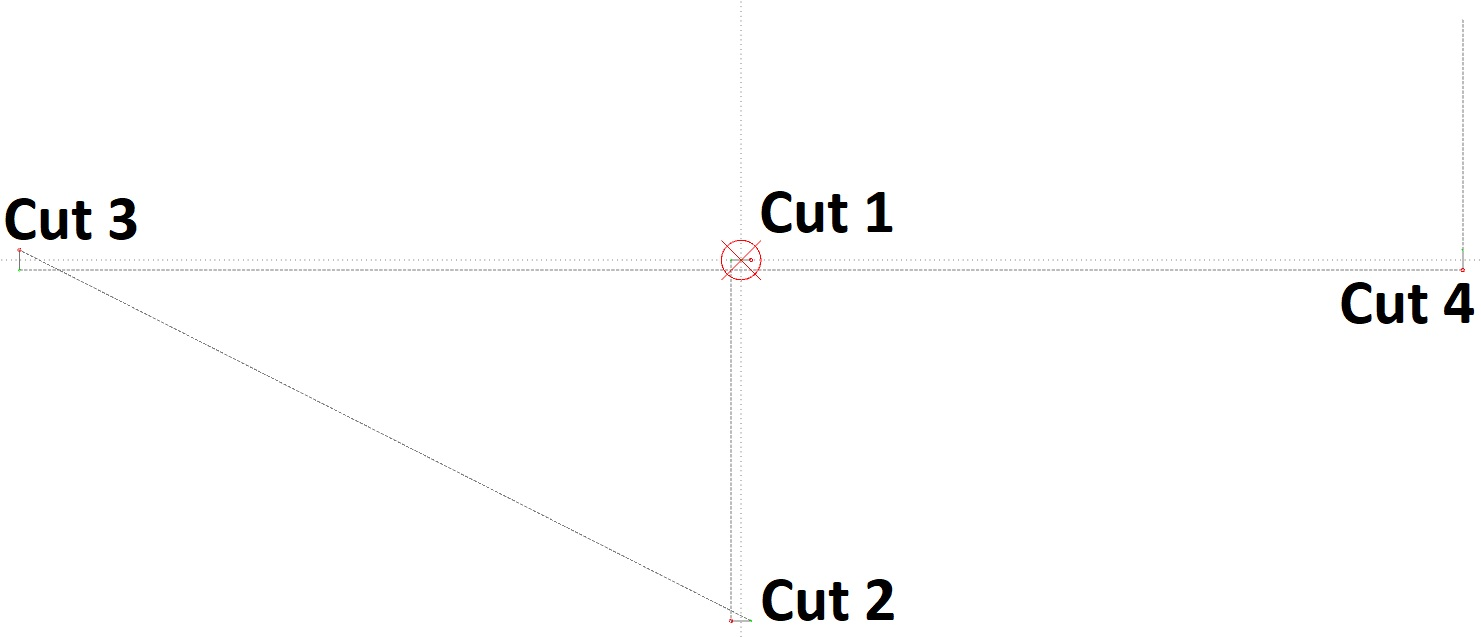
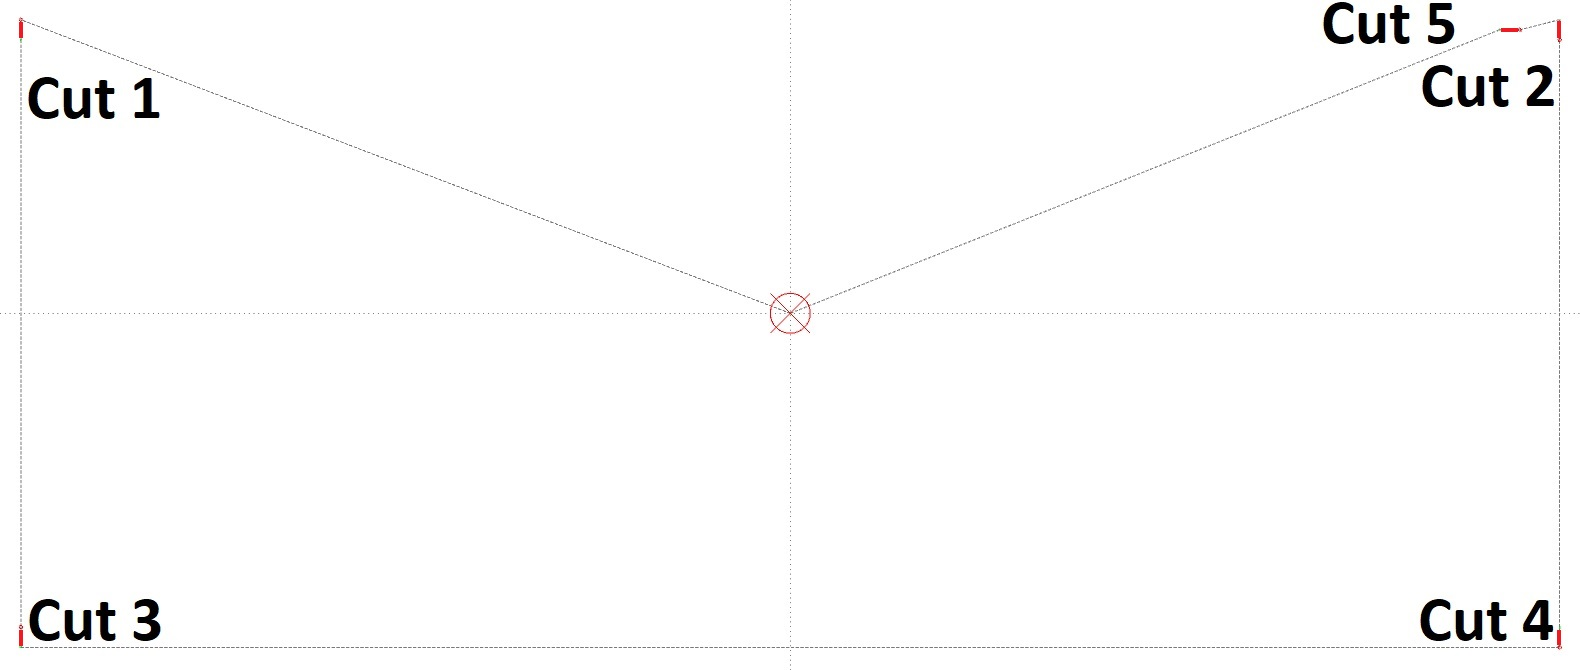
Change Triangular Kinematics Calibration Cut Pattern
This adjusts the triangular cinematics calibration cut pattern to be two long horizontal cuts, as well as associated calibration process changes.

diff --git a/UIElements/triangularCalibration.py b/UIElements/triangularCalibration.py
@@ -1,5 +1,6 @@
 from   kivy.uix.widget                    import   Widget
 from   kivy.properties                    import   ObjectProperty
+from   kivy.properties                    import   StringProperty
 from   UIElements.touchNumberInput        import   TouchNumberInput
 from   kivy.uix.popup                     import   Popup
 import global_variables
@@ -13,7 +14,8 @@ class TriangularCalibration(Widget):
     '''
     data                         =  ObjectProperty(None) #linked externally
     numberOfTimesTestCutRun      = -2
-    
+    triangularCalText            = StringProperty("")
+
     def cutTestPaternTriangular(self):
 
         workspaceHeight = float(self.data.config.get('Maslow Settings', 'bedHeight'))
@@ -21,39 +23,43 @@ class TriangularCalibration(Widget):
 
         self.data.units = "MM"
         self.data.gcode_queue.put("G21 ")
-        self.data.gcode_queue.put("G90 ") #Switch to absolute mode
+        self.data.gcode_queue.put("G90 ") # Switch to absolute mode
         self.data.gcode_queue.put("G40 ")
 
         self.data.gcode_queue.put("G0 Z5 ")
         self.data.gcode_queue.put("G0 X0 Y0 ")
         self.data.gcode_queue.put("G17 ")
 
-        self.data.gcode_queue.put("G91 ")   #Switch to relative mode
+        self.data.gcode_queue.put("G91 ") # Switch to relative mode
 
-        self.data.gcode_queue.put("G0 X12.7 ")  # Move to first cut point
+        self.data.gcode_queue.put("G0 X-" + str((workspaceWidth/2)-254) + " Y+" + str((workspaceHeight/2)-241.3) + " ")  # Move to first cut point
         self.data.gcode_queue.put("G1 Z-7 F500 ")
-        self.data.gcode_queue.put("G1 X-25.4 ") # Cut 25.4mm horizontal mark
+        self.data.gcode_queue.put("G1 Y-25.4 ") # Cut 25.4mm vertical mark
         self.data.gcode_queue.put("G1 Z7 ")
-        self.data.gcode_queue.put("G0 Y-" + str(workspaceHeight*3/8) + " ")  # Move down the workspace to second cut point
-        self.data.gcode_queue.put("G1 Z-7 ")
-        self.data.gcode_queue.put("G1 X25.4 ") # Cut 25.4mm horizontal mark
-        self.data.gcode_queue.put("G1 Z7 ")
-        self.data.gcode_queue.put("G0 X-" + str((workspaceWidth*3/8)+12.7) + " Y" + str((workspaceHeight*3/8)+12.7) + " ")  # Move up the workspace and to the left side to third cut point
+        self.data.gcode_queue.put("G0 Y-" + str(workspaceHeight-482.6) + " ")  # Move down on the workspace to third cut point
         self.data.gcode_queue.put("G1 Z-7 ")
         self.data.gcode_queue.put("G1 Y-25.4 ") # Cut 25.4mm vertical mark
         self.data.gcode_queue.put("G1 Z7 ")
-        self.data.gcode_queue.put("G0 X" + str(workspaceWidth*6/8) + " ")  # Move to the right side to fourth cut point
+        self.data.gcode_queue.put("G0 X" + str(workspaceWidth-508) + " ")  # Move right on the workspace to fourth cut point
         self.data.gcode_queue.put("G1 Z-7 ")
         self.data.gcode_queue.put("G1 Y25.4 ") # Cut 25.4mm vertical mark
         self.data.gcode_queue.put("G1 Z7 ")
-        self.data.gcode_queue.put("G0 Y" + str((workspaceHeight/4)-12.7) + " ")  # Move the sled out of the way for measurements
+        self.data.gcode_queue.put("G0 Y" + str(workspaceHeight-482.6) + " ")  # Move up on the workspace to second cut point
+        self.data.gcode_queue.put("G1 Z-7 ")
+        self.data.gcode_queue.put("G1 Y25.4 ") # Cut 25.4mm vertical mark
+        self.data.gcode_queue.put("G1 Z7 ")
+        self.data.gcode_queue.put("G0 X-50 Y-12.7 ")  # Move left on the workspace to fifth cut point
+        self.data.gcode_queue.put("G1 Z-7 ")
+        self.data.gcode_queue.put("G1 X-25.4 ") # Cut 25.4mm horizontal mark
+        self.data.gcode_queue.put("G1 Z7 ")
 
-        self.data.gcode_queue.put("G90 ") #Switch back to absolute mode
+        self.data.gcode_queue.put("G90 ") # Switch back to absolute mode
+        self.data.gcode_queue.put("G0 X0 Y0 ") # Move to home location
 
         self.cutBtnT.text = "Re-Cut Test\nPattern"
-        self.vertMeasureT1.disabled = False
-        self.vertMeasureT2.disabled = False
         self.horzMeasureT1.disabled = False
+        self.horzMeasureT2.disabled = False
+        self.vertMeasureT1.disabled = False
         self.enterValuesT.disabled = False
 
     def enterTestPaternValuesTriangular(self):
@@ -69,21 +75,21 @@ class TriangularCalibration(Widget):
         workspaceWidth = float(self.data.config.get('Maslow Settings', 'bedWidth'))
 
         try:
-            distBetweenCuts12 = float(self.vertMeasureT1.text)
+            distBetweenCuts12 = float(self.horzMeasureT1.text)
         except:
             self.data.message_queue.put("Message: Please enter a number for the distance between cut 1 and cut 2.")
             return
 
         try:
-            distBetweenCuts34 = float(self.horzMeasureT1.text)
+            distBetweenCuts34 = float(self.horzMeasureT2.text)
         except:
             self.data.message_queue.put("Message: Please enter a number for the distance between cut 3 and cut 4.")
             return
 
         try:
-            distWorkareaTopToCut1 = float(self.vertMeasureT2.text)
+            distWorkareaTopToCut5 = float(self.vertMeasureT1.text)
         except:
-            self.data.message_queue.put("Message: Please enter a number for the distance between the top of the work area and cut 1.")
+            self.data.message_queue.put("Message: Please enter a number for the distance between the top of the work area and cut 5.")
             return
 
         try:
@@ -93,31 +99,31 @@ class TriangularCalibration(Widget):
             return
 
         if self.unitsBtnT.text == 'Units: inches':
-            if (((distBetweenCuts12*25.4) > (workspaceHeight / 2)) or ((distBetweenCuts12*25.4) < (workspaceHeight / 10))):
+            if (((distBetweenCuts12*25.4) > workspaceWidth) or ((distBetweenCuts12*25.4) < (workspaceWidth / 2))):
                 self.data.message_queue.put('Message: The measurement between cut 1 and cut 2 of ' + str(distBetweenCuts12) + ' inches seems wrong.\n\nPlease check the number and enter it again.')
                 return
-            if (((distBetweenCuts34*25.4) > workspaceWidth) or ((distBetweenCuts34*25.4) < (workspaceWidth / 10))):
+            if (((distBetweenCuts34*25.4) > workspaceWidth) or ((distBetweenCuts34*25.4) < (workspaceWidth / 2))):
                 self.data.message_queue.put('Message: The measurement between cut 3 and cut 4 of ' + str(distBetweenCuts34) + ' inches seems wrong.\n\nPlease check the number and enter it again.')
                 return
-            if (((distWorkareaTopToCut1*25.4) > workspaceHeight) or (distWorkareaTopToCut1 < 0)):
-                self.data.message_queue.put('Message: The measurement between the top edge of the work area and cut 1 of ' + str(distWorkareaTopToCut1) + ' inches seems wrong.\n\nPlease check the number and enter it again.')
+            if (((distWorkareaTopToCut5*25.4) > (workspaceHeight/2)) or (distWorkareaTopToCut5 < 0)):
+                self.data.message_queue.put('Message: The measurement between the top edge of the work area and cut 5 of ' + str(distWorkareaTopToCut5) + ' inches seems wrong.\n\nPlease check the number and enter it again.')
                 return
             if ((bitDiameter > 1) or (bitDiameter < 0)):
                 self.data.message_queue.put('Message: The bit diameter value of ' + str(bitDiameter) + ' inches seems wrong.\n\nPlease check the number and enter it again.')
                 return
             distBetweenCuts12 *= 25.4
             distBetweenCuts34 *= 25.4
-            distWorkareaTopToCut1 *= 25.4
+            distWorkareaTopToCut5 *= 25.4
             bitDiameter *= 25.4
         else:
-            if ((distBetweenCuts12 > (workspaceHeight / 2)) or (distBetweenCuts12 < (workspaceHeight / 10))):
+            if ((distBetweenCuts12 > workspaceWidth) or (distBetweenCuts12 < (workspaceWidth / 2))):
                 self.data.message_queue.put('Message: The measurement between cut 1 and cut 2 of ' + str(distBetweenCuts12) + ' mm seems wrong.\n\nPlease check the number and enter it again.')
                 return
-            if ((distBetweenCuts34 > workspaceWidth) or (distBetweenCuts34 < (workspaceWidth / 10))):
+            if ((distBetweenCuts34 > workspaceWidth) or (distBetweenCuts34 < (workspaceWidth / 2))):
                 self.data.message_queue.put('Message: The measurement between cut 3 and cut 4 of ' + str(distBetweenCuts34) + ' mm seems wrong.\n\nPlease check the number and enter it again.')
                 return
-            if ((distWorkareaTopToCut1 > workspaceHeight) or (distWorkareaTopToCut1 < 0)):
-                self.data.message_queue.put('Message: The measurement between the top edge of the work area and cut 1 of ' + str(distWorkareaTopToCut1) + ' mm seems wrong.\n\nPlease check the number and enter it again.')
+            if ((distWorkareaTopToCut5 > (workspaceHeight/2)) or (distWorkareaTopToCut5 < 0)):
+                self.data.message_queue.put('Message: The measurement between the top edge of the work area and cut 5 of ' + str(distWorkareaTopToCut5) + ' mm seems wrong.\n\nPlease check the number and enter it again.')
                 return
             if ((bitDiameter > 25.4) or (bitDiameter < 0)):
                 self.data.message_queue.put('Message: The bit diameter value of ' + str(bitDiameter) + ' mm seems wrong.\n\nPlease check the number and enter it again.')
@@ -129,8 +135,8 @@ class TriangularCalibration(Widget):
         numberOfIterations = 5000
         motorYcoordCorrectionScale = 0.5
         rotationRadiusCorrectionScale = 0.5
-        chainSagCorrectionCorrectionScale = 5.0
-        cut34YoffsetCorrectionScale = 1.0
+        chainSagCorrectionCorrectionScale = 1
+        cutYoffsetCorrectionScale = 0.5
 
         # Gather current machine parameters
 
@@ -146,16 +152,16 @@ class TriangularCalibration(Widget):
 
         # Calculate the actual chain lengths for each cut location
 
-        MotorDistanceCut1 = math.sqrt(math.pow(motorXcoord,2) + math.pow(motorYcoordEst,2))
-        MotorDistanceCut2 = math.sqrt(math.pow(motorXcoord,2) + math.pow(motorYcoordEst + (workspaceHeight*3/8),2))
-        MotorDistanceCut3 = math.sqrt(math.pow(motorXcoord - (workspaceWidth*3/8),2) + math.pow(motorYcoordEst,2))
-        MotorDistanceCut4 = math.sqrt(math.pow(motorXcoord + (workspaceWidth*3/8),2) + math.pow(motorYcoordEst,2))
+        MotorDistanceCut1 = math.sqrt(math.pow(motorXcoord - ((workspaceWidth/2)-254),2) + math.pow(motorYcoordEst - ((workspaceHeight/2)-254),2))
+        MotorDistanceCut2 = math.sqrt(math.pow(motorXcoord + ((workspaceWidth/2)-254),2) + math.pow(motorYcoordEst - ((workspaceHeight/2)-254),2))
+        MotorDistanceCut3 = math.sqrt(math.pow(motorXcoord - ((workspaceWidth/2)-254),2) + math.pow(motorYcoordEst + ((workspaceHeight/2)-254),2))
+        MotorDistanceCut4 = math.sqrt(math.pow(motorXcoord + ((workspaceWidth/2)-254),2) + math.pow(motorYcoordEst + ((workspaceHeight/2)-254),2))
 
         #Calculate the chain angles from horizontal
-        ChainAngleCut1 = 3.14159 - math.acos(motorSprocketRadius/MotorDistanceCut1) - math.acos(motorYcoordEst / MotorDistanceCut1)
-        ChainAngleCut2 = 3.14159 - math.acos(motorSprocketRadius/MotorDistanceCut2) - math.acos((motorYcoordEst + (workspaceHeight*3/8)) / MotorDistanceCut2)
-        ChainAngleCut3 = 3.14159 - math.acos(motorSprocketRadius/MotorDistanceCut3) - math.acos((motorYcoordEst) / MotorDistanceCut3)
-        ChainAngleCut4 = 3.14159 - math.acos(motorSprocketRadius/MotorDistanceCut4) - math.acos((motorYcoordEst) / MotorDistanceCut4)
+        ChainAngleCut1 = 3.14159 - math.acos(motorSprocketRadius/MotorDistanceCut1) - math.acos((motorYcoordEst - ((workspaceHeight/2)-254)) / MotorDistanceCut1)
+        ChainAngleCut2 = 3.14159 - math.acos(motorSprocketRadius/MotorDistanceCut2) - math.acos((motorYcoordEst - ((workspaceHeight/2)-254)) / MotorDistanceCut2)
+        ChainAngleCut3 = 3.14159 - math.acos(motorSprocketRadius/MotorDistanceCut3) - math.acos((motorYcoordEst + ((workspaceHeight/2)-254)) / MotorDistanceCut3)
+        ChainAngleCut4 = 3.14159 - math.acos(motorSprocketRadius/MotorDistanceCut4) - math.acos((motorYcoordEst + ((workspaceHeight/2)-254)) / MotorDistanceCut4)
 
         #Calculate the straight chain length from the sprocket to the bit
         ChainStraightCut1 = math.sqrt(math.pow(MotorDistanceCut1,2) - math.pow(motorSprocketRadius,2))
@@ -164,8 +170,8 @@ class TriangularCalibration(Widget):
         ChainStraightCut4 = math.sqrt(math.pow(MotorDistanceCut4,2) - math.pow(motorSprocketRadius,2))
 
         #Correct the straight chain lengths to account for chain sag
-        ChainStraightCut1 *= (1 + ((chainSagCorrectionEst / 1000000000000) * math.pow(math.cos(ChainAngleCut1),2) * math.pow(ChainStraightCut1,2) * math.pow((math.tan(ChainAngleCut1) * math.cos(ChainAngleCut1)) + math.sin(ChainAngleCut1),2)))
-        ChainStraightCut2 *= (1 + ((chainSagCorrectionEst / 1000000000000) * math.pow(math.cos(ChainAngleCut2),2) * math.pow(ChainStraightCut2,2) * math.pow((math.tan(ChainAngleCut2) * math.cos(ChainAngleCut2)) + math.sin(ChainAngleCut2),2)))
+        ChainStraightCut1 *= (1 + ((chainSagCorrectionEst / 1000000000000) * math.pow(math.cos(ChainAngleCut1),2) * math.pow(ChainStraightCut1,2) * math.pow((math.tan(ChainAngleCut2) * math.cos(ChainAngleCut1)) + math.sin(ChainAngleCut1),2)))
+        ChainStraightCut2 *= (1 + ((chainSagCorrectionEst / 1000000000000) * math.pow(math.cos(ChainAngleCut2),2) * math.pow(ChainStraightCut2,2) * math.pow((math.tan(ChainAngleCut1) * math.cos(ChainAngleCut2)) + math.sin(ChainAngleCut2),2)))
         ChainStraightCut3 *= (1 + ((chainSagCorrectionEst / 1000000000000) * math.pow(math.cos(ChainAngleCut3),2) * math.pow(ChainStraightCut3,2) * math.pow((math.tan(ChainAngleCut4) * math.cos(ChainAngleCut3)) + math.sin(ChainAngleCut3),2)))
         ChainStraightCut4 *= (1 + ((chainSagCorrectionEst / 1000000000000) * math.pow(math.cos(ChainAngleCut4),2) * math.pow(ChainStraightCut4,2) * math.pow((math.tan(ChainAngleCut3) * math.cos(ChainAngleCut4)) + math.sin(ChainAngleCut4),2)))
 
@@ -186,7 +192,7 @@ class TriangularCalibration(Widget):
         print "Previous machine parameters:"
         print "Motor Spacing: " + str(motorSpacing) + ", Motor Y Offset: " + str(motorYoffsetEst) + ", Rotation Disk Radius: " + str(rotationRadiusEst) + ", Chain Sag Correction Value: " + str(chainSagCorrectionEst)
 
-        motorYcoordEst = distWorkareaTopToCut1 + (bitDiameter / 2)
+        motorYcoordEst = distWorkareaTopToCut5 + (bitDiameter / 2)
         rotationRadiusEst = 0
         chainSagCorrectionEst= 0
         cut34YoffsetEst = 0
@@ -196,9 +202,9 @@ class TriangularCalibration(Widget):
         ChainErrorCut4 = acceptableTolerance
         n = 0
 
-        self.vertMeasureT1.disabled = True
-        self.vertMeasureT2.disabled = True
         self.horzMeasureT1.disabled = True
+        self.horzMeasureT2.disabled = True
+        self.vertMeasureT1.disabled = True
         self.enterValuesT.disabled = True
 
         print "Iterating for new machine parameters"
@@ -210,16 +216,16 @@ class TriangularCalibration(Widget):
 
             # Calculate chain lengths for current estimated parameters
 
-            MotorDistanceCut1Est = math.sqrt(math.pow(motorXcoord,2) + math.pow(motorYcoordEst,2))
-            MotorDistanceCut2Est = math.sqrt(math.pow(motorXcoord,2) + math.pow(motorYcoordEst + distBetweenCuts12,2))
-            MotorDistanceCut3Est = math.sqrt(math.pow(motorXcoord - (distBetweenCuts34 / 2),2) + math.pow(motorYcoordEst + cut34YoffsetEst,2))
-            MotorDistanceCut4Est = math.sqrt(math.pow(motorXcoord + (distBetweenCuts34 / 2),2) + math.pow(motorYcoordEst + cut34YoffsetEst,2))
+            MotorDistanceCut1Est = math.sqrt(math.pow(motorXcoord - (distBetweenCuts12 / 2),2) + math.pow(motorYcoordEst,2))
+            MotorDistanceCut2Est = math.sqrt(math.pow(motorXcoord + (distBetweenCuts12 / 2),2) + math.pow(motorYcoordEst,2))
+            MotorDistanceCut3Est = math.sqrt(math.pow(motorXcoord - (distBetweenCuts34 / 2),2) + math.pow(motorYcoordEst + (workspaceHeight-508) - cut34YoffsetEst,2))
+            MotorDistanceCut4Est = math.sqrt(math.pow(motorXcoord + (distBetweenCuts34 / 2),2) + math.pow(motorYcoordEst + (workspaceHeight-508) - cut34YoffsetEst,2))
 
             #Calculate the chain angles from horizontal
-            ChainAngleCut1Est = 3.14159 - math.acos(motorSprocketRadius / MotorDistanceCut1Est) - math.acos((motorYcoordEst) / MotorDistanceCut1Est)
-            ChainAngleCut2Est = 3.14159 - math.acos(motorSprocketRadius / MotorDistanceCut2Est) - math.acos((motorYcoordEst + distBetweenCuts12) / MotorDistanceCut2Est)
-            ChainAngleCut3Est = 3.14159 - math.acos(motorSprocketRadius / MotorDistanceCut3Est) - math.acos((motorYcoordEst + cut34YoffsetEst) / MotorDistanceCut3Est)
-            ChainAngleCut4Est = 3.14159 - math.acos(motorSprocketRadius / MotorDistanceCut4Est) - math.acos((motorYcoordEst + cut34YoffsetEst) / MotorDistanceCut4Est)
+            ChainAngleCut1Est = 3.14159 - math.acos(motorSprocketRadius / MotorDistanceCut1Est) - math.acos(motorYcoordEst / MotorDistanceCut1Est)
+            ChainAngleCut2Est = 3.14159 - math.acos(motorSprocketRadius / MotorDistanceCut2Est) - math.acos(motorYcoordEst / MotorDistanceCut2Est)
+            ChainAngleCut3Est = 3.14159 - math.acos(motorSprocketRadius / MotorDistanceCut3Est) - math.acos((motorYcoordEst + (workspaceHeight-508) - cut34YoffsetEst) / MotorDistanceCut3Est)
+            ChainAngleCut4Est = 3.14159 - math.acos(motorSprocketRadius / MotorDistanceCut4Est) - math.acos((motorYcoordEst + (workspaceHeight-508) - cut34YoffsetEst) / MotorDistanceCut4Est)
 
             #Calculate the straight chain length from the sprocket to the bit
             ChainStraightCut1Est = math.sqrt(math.pow(MotorDistanceCut1Est,2) - math.pow(motorSprocketRadius,2))
@@ -228,8 +234,8 @@ class TriangularCalibration(Widget):
             ChainStraightCut4Est = math.sqrt(math.pow(MotorDistanceCut4Est,2) - math.pow(motorSprocketRadius,2))
 
             #Correct the straight chain lengths to account for chain sag
-            ChainStraightCut1Est *= (1 + ((chainSagCorrectionEst / 1000000000000) * math.pow(math.cos(ChainAngleCut1Est),2) * math.pow(ChainStraightCut1Est,2) * math.pow((math.tan(ChainAngleCut1Est) * math.cos(ChainAngleCut1Est)) + math.sin(ChainAngleCut1Est),2)))
-            ChainStraightCut2Est *= (1 + ((chainSagCorrectionEst / 1000000000000) * math.pow(math.cos(ChainAngleCut2Est),2) * math.pow(ChainStraightCut2Est,2) * math.pow((math.tan(ChainAngleCut2Est) * math.cos(ChainAngleCut2Est)) + math.sin(ChainAngleCut2Est),2)))
+            ChainStraightCut1Est *= (1 + ((chainSagCorrectionEst / 1000000000000) * math.pow(math.cos(ChainAngleCut1Est),2) * math.pow(ChainStraightCut1Est,2) * math.pow((math.tan(ChainAngleCut2Est) * math.cos(ChainAngleCut1Est)) + math.sin(ChainAngleCut1Est),2)))
+            ChainStraightCut2Est *= (1 + ((chainSagCorrectionEst / 1000000000000) * math.pow(math.cos(ChainAngleCut2Est),2) * math.pow(ChainStraightCut2Est,2) * math.pow((math.tan(ChainAngleCut1Est) * math.cos(ChainAngleCut2Est)) + math.sin(ChainAngleCut2Est),2)))
             ChainStraightCut3Est *= (1 + ((chainSagCorrectionEst / 1000000000000) * math.pow(math.cos(ChainAngleCut3Est),2) * math.pow(ChainStraightCut3Est,2) * math.pow((math.tan(ChainAngleCut4Est) * math.cos(ChainAngleCut3Est)) + math.sin(ChainAngleCut3Est),2)))
             ChainStraightCut4Est *= (1 + ((chainSagCorrectionEst / 1000000000000) * math.pow(math.cos(ChainAngleCut4Est),2) * math.pow(ChainStraightCut4Est,2) * math.pow((math.tan(ChainAngleCut3Est) * math.cos(ChainAngleCut4Est)) + math.sin(ChainAngleCut4Est),2)))
 
@@ -254,57 +260,48 @@ class TriangularCalibration(Widget):
 
             # Develop a printable motor Y offset value to update the user
 
-            motorYoffsetEstPrint = motorYcoordEst - distWorkareaTopToCut1 - (bitDiameter / 2)
+            motorYoffsetEstPrint = motorYcoordEst - distWorkareaTopToCut5 - (bitDiameter / 2)
 
             print "N: " + str(n) + ", Motor Spacing: " + str(round(motorSpacing, 3)) + ", Motor Y Offset: " + str(round(motorYoffsetEstPrint, 3)) + ", Rotation Disk Radius: " + str(round(rotationRadiusEst, 3)) + ", Chain Sag Correction Value: " + str(round(chainSagCorrectionEst, 6))
-            print "  Chain Error Cut 1: " + str(round(ChainErrorCut1,4)) + ", Chain Error Cut 2: " + str(round(ChainErrorCut2,4)) + ", Chain Error Cut 3: " + str(round(ChainErrorCut3,4)) + ", Chain Error Cut 4: " + str(round(ChainErrorCut4,4)) + ", Sled Drift Compensation: " + str(round(-1 * cut34YoffsetEst, 4))
+            print "  Chain Error Cut 1: " + str(round(ChainErrorCut1,4)) + ", Chain Error Cut 2: " + str(round(ChainErrorCut2,4)) + ", Chain Error Cut 3: " + str(round(ChainErrorCut3,4)) + ", Chain Error Cut 4: " + str(round(ChainErrorCut4,4)) + ", Sled Drift Compensation: " + str(round(cut34YoffsetEst, 4))
 
             # Update the motorYcoord and rotationRadius parameters based on the current chain length errors
 
-            if ((ChainErrorCut1 < 0 and ChainErrorCut2 < 0) or (ChainErrorCut1 > 0 and ChainErrorCut2 > 0)):
-                motorYcoordEst -= ((ChainErrorCut1 + ChainErrorCut2) / 2) * motorYcoordCorrectionScale
-            else:
-                rotationRadiusEst += ((ChainErrorCut1 - ChainErrorCut2) / 2) * rotationRadiusCorrectionScale
-                if (rotationRadiusEst < 0):
-                    rotationRadiusEst = 0
+            motorYcoordEst -= ChainErrorCut1 * motorYcoordCorrectionScale
+            rotationRadiusEst += ChainErrorCut2 * rotationRadiusCorrectionScale
+            if (rotationRadiusEst < 0):
+                rotationRadiusEst = 0
 
             # When we get close to correct values for motorYcoord and rotationRadius begin calibrating for chain sag
 
             if (abs(ChainErrorCut1) < 1 and abs(ChainErrorCut2) < 1):
                 chainSagCorrectionEst -= ChainErrorCut4 * chainSagCorrectionCorrectionScale
-                cut34YoffsetEst -= ((ChainErrorCut3 + ChainErrorCut4) / 2) * cut34YoffsetCorrectionScale
+                cut34YoffsetEst += ((ChainErrorCut3 + ChainErrorCut4) / 2) * cutYoffsetCorrectionScale
                 if (chainSagCorrectionEst < 0):
                     chainSagCorrectionEst = 0
 
             # If we get unrealistic values, reset and try again with smaller steps
 
             if (motorYcoordEst < -(workspaceHeight/4) or motorYcoordEst > (2*workspaceHeight) or rotationRadiusEst > workspaceHeight):
-                    motorYcoordEst = distWorkareaTopToCut1 + (bitDiameter / 2)
+                    motorYcoordEst = distWorkareaTopToCut5 + (bitDiameter / 2)
                     rotationRadiusEst = 0
                     chainSagCorrectionEst= 0
                     cut34YoffsetEst = 0
                     motorYcoordCorrectionScale = float(motorYcoordCorrectionScale/2)
                     rotationRadiusCorrectionScale = float(rotationRadiusCorrectionScale/2)
                     chainSagCorrectionCorrectionScale = float(chainSagCorrectionCorrectionScale/2)
-                    cut34YoffsetCorrectionScale = float(cut34YoffsetCorrectionScale/2)
+                    cutYoffsetCorrectionScale = float(cutYoffsetCorrectionScale/2)
                     print "Estimated values out of range, trying again with smaller steps"
 
         if n == numberOfIterations:
             self.data.message_queue.put('Message: The machine was not able to be calibrated. Please ensure the work area dimensions are correct and try again.')
             print "Machine parameters could not be determined"
 
-            # Return sled to workspace center
-
-            self.data.gcode_queue.put("G21 ")
-            self.data.gcode_queue.put("G90 ")
-            self.data.gcode_queue.put("G40 ")
-            self.data.gcode_queue.put("G0 X0 Y0 ")
-            
             return
 
         print "Machine parameters found:"
 
-        motorYoffsetEst = motorYcoordEst - distWorkareaTopToCut1 - (bitDiameter / 2)
+        motorYoffsetEst = motorYcoordEst - distWorkareaTopToCut5 - (bitDiameter / 2)
 
         motorYoffsetEst = round(motorYoffsetEst, 1)
         rotationRadiusEst = round(rotationRadiusEst, 1)

diff --git a/UIElements/measureMachinePopup.py b/UIElements/measureMachinePopup.py
@@ -35,6 +35,11 @@ class MeasureMachinePopup(GridLayout):
 
         self.triangularCalibration.data          =  data
         self.triangularCalibration.carousel      =  self.carousel
+        triangularTestCutText = "The cuts in the corners will be about\n254 mm/10 inches from the work area edges.\n\n"
+        triangularTestCutText = triangularTestCutText + "The pattern will be centered in the work area with dimensions:\n"
+        triangularTestCutText = triangularTestCutText + "Width: " + str(float(self.data.config.get('Maslow Settings', 'bedWidth'))-508) + " mm/" + str((float(self.data.config.get('Maslow Settings', 'bedWidth'))-508)/25.4) + " inches\n"
+        triangularTestCutText = triangularTestCutText + "Height: " + str(float(self.data.config.get('Maslow Settings', 'bedHeight'))-508) + " mm/" + str((float(self.data.config.get('Maslow Settings', 'bedHeight'))-508)/25.4) + " inches\n"
+        self.triangularCalibration.triangularCalText  = triangularTestCutText
 
     def backBtn(self, *args):
         '''
